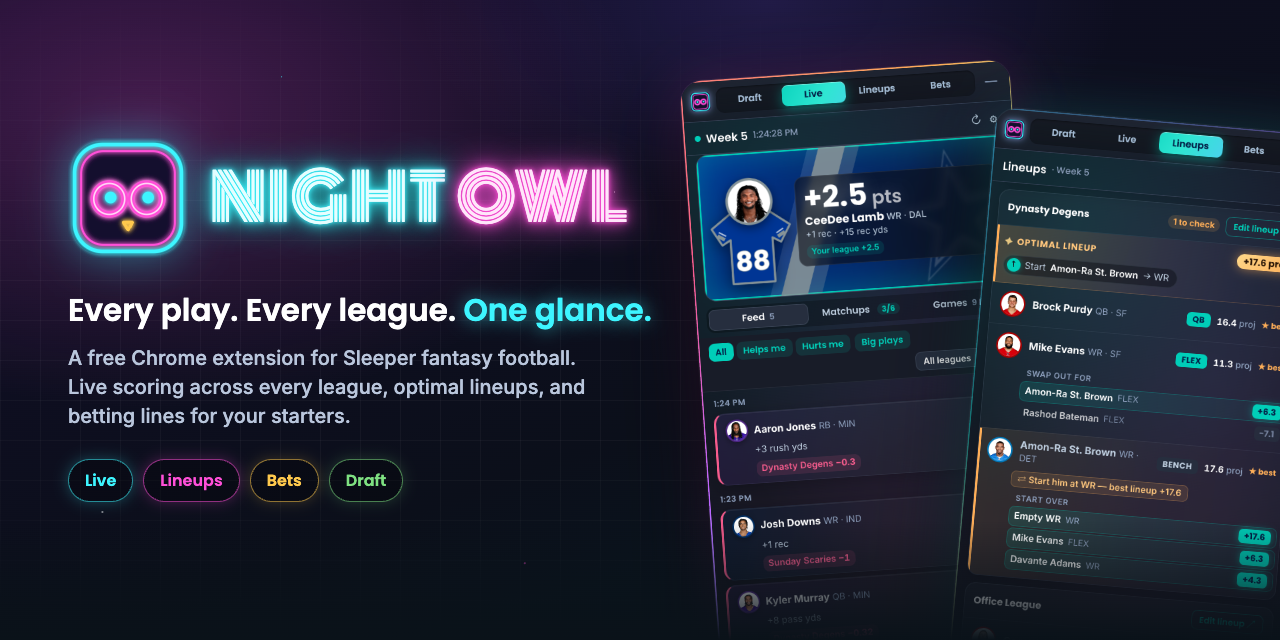
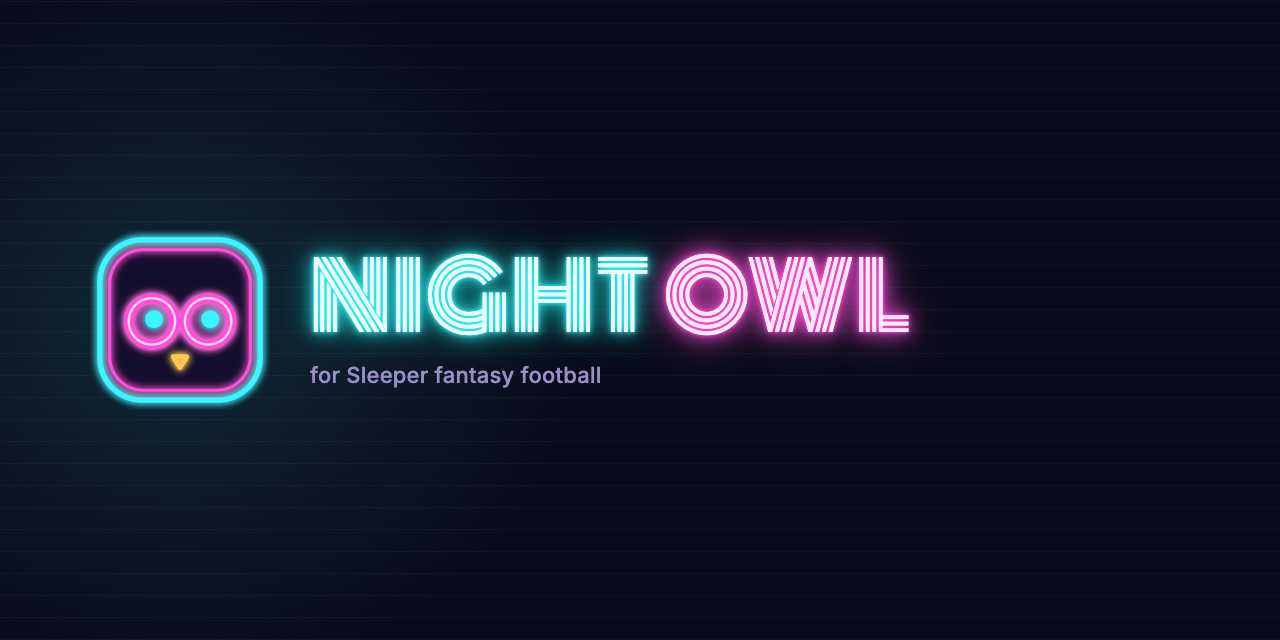
README: rewrite in plain language
Say why the extension exists and what each tab does, note what it can't do,
and drop the banner, badge row and dividers for a simple header.

diff --git a/README.md b/README.md
@@ -1,96 +1,109 @@
-<p align="center">
-  <img src="docs/images/banner.jpg" alt="Night Owl: every play, every league, one glance" width="100%">
-</p>
+<img src="docs/images/header.jpg" alt="Night Owl" width="100%">
 
-<p align="center">
-  <a href="https://github.com/Treys21/NightOwl/releases/latest"><img alt="Download the latest release" src="docs/images/badges/download.svg"></a>
-  <img alt="Chrome 116+" src="docs/images/badges/chrome.svg">
-  <img alt="Manifest V3" src="docs/images/badges/mv3.svg">
-  <a href="LICENSE"><img alt="MIT license" src="docs/images/badges/license.svg"></a>
-</p>
+Night Owl is a Chrome extension that adds a small panel to [sleeper.com](https://sleeper.com).
+It's built for people in more than one league.
 
-<p align="center">
-  <b>A Chrome extension for <a href="https://sleeper.com">Sleeper</a> fantasy football.</b><br>
-  Live scoring across every league you play in, optimal lineups before each kickoff,<br>
-  betting lines for your starters, and your own big board on draft day.
-</p>
+I play in several Sleeper leagues, and every one of them scores differently. On
+Sundays I kept flipping between matchups to work out whether a CeeDee Lamb catch
+was good news or bad. He'd be my starter in one league and my opponent's in two
+others, and half PPR in one but full PPR in another. Night Owl does that math for
+every play, in every league, as it happens.
 
-<p align="center">
-  <a href="#install"><b>Install</b></a> ·
-  <a href="#features"><b>Features</b></a> ·
-  <a href="#privacy"><b>Privacy</b></a> ·
-  <a href="https://github.com/Treys21/NightOwl/issues/new/choose"><b>Feedback</b></a>
-</p>
+<img src="docs/images/plays.gif" alt="A play landing in the Live tab" width="440">
 
-<p align="center"><img src="docs/images/divider.svg" width="100%" alt=""></p>
+## What it does
 
-<table align="center">
-  <tr>
-    <td align="center" valign="top" width="25%"><img src="docs/images/live.png" alt="Live feed" width="100%"><br><b>Live</b><br><sub>Every play, scored per league</sub></td>
-    <td align="center" valign="top" width="25%"><img src="docs/images/lineups.png" alt="Lineups" width="100%"><br><b>Lineups</b><br><sub>Optimal lineup before kickoff</sub></td>
-    <td align="center" valign="top" width="25%"><img src="docs/images/bets.png" alt="Bets" width="100%"><br><b>Bets</b><br><sub>Lines and odds for your starters</sub></td>
-    <td align="center" valign="top" width="25%"><img src="docs/images/draft.png" alt="Draft board" width="100%"><br><b>Draft</b><br><sub>Your rankings, live in the draft room</sub></td>
-  </tr>
-</table>
+There are four tabs. Only the one you're looking at runs.
 
-<p align="center"><img src="docs/images/divider.svg" width="100%" alt=""></p>
+<img src="docs/images/live.png" alt="Live tab" width="300" align="right">
 
-## Install
+**Live** lists every scoring play by your starters and your opponents' starters,
+newest first. Each play shows what it was worth in each league, from your side:
+**+** if it's your player, **−** if it's theirs. It never adds the leagues together,
+because they're separate games. When eight games kick off at 1 PM it gets busy, so
+you can filter to one league, to plays that help or hurt you, or to big plays only.
+Matchups and per-game views are one tap away.
 
-Night Owl is distributed as a release package while it is in testing.
-
-1. Download **`night-owl-v<version>.zip`** from the [latest release](https://github.com/Treys21/NightOwl/releases/latest) and unzip it.
-2. Open `chrome://extensions` and enable **Developer mode**.
-3. Select **Load unpacked** and choose the unzipped folder.
-4. Click the Night Owl icon in the toolbar, enter your **Sleeper username**, and select **Save**.
-5. Open [sleeper.com](https://sleeper.com). The panel appears in the corner of the page.
-
-Night Owl runs in Chrome 116 or later and other Chromium browsers, including Edge, Brave and Arc. To update, unzip the new release over the old folder, then select **↻** on the extension card and reload sleeper.com.
-
-## Features
-
-<img src="docs/images/plays.gif" alt="Plays landing on the Live stage" width="420" align="right">
-
-**Live.** A single game-day feed for every league. Each scoring play by your starters or your opponents' starters appears once, with its effect in each league under that league's scoring settings: `+` when it helps you, `−` when it hurts. Big plays land on the stage in team colors. Filter by league, by plays that help or hurt, or by big plays only.
-
-**Lineups.** Your roster grouped by kickoff window, starting with the next one to lock. An exact solver finds the optimal lineup, including flex and superflex chains, and lists every valid swap with its projected gain. Starters who are on bye, out, or in an empty slot are flagged before kickoff.
-
-**Bets.** Sleeper Picks lines and DraftKings milestones for each player you start, shown in American odds, with hit rates over the last ten games, projection against the line, and matchup context. Once a game starts, each line shows live progress. For information only; no wagers are placed.
-
-**Draft.** Your rankings as a big board inside Sleeper mock and league drafts: who is gone, who took them, how far each pick landed from your rank, and an alert when you are on the clock. Rankings sync from The Ringer or can be edited by hand.
+Points come from each league's own scoring settings and match Sleeper's totals.
+There's a test for that against real matchups.
 
 <br clear="right">
 
-<p align="center"><img src="docs/images/divider.svg" width="100%" alt=""></p>
+<img src="docs/images/lineups.png" alt="Lineups tab" width="300" align="right">
+
+**Lineups** goes through the week by kickoff window, next lock first. For each
+league it works out the best possible lineup, flex spots included, and tells you
+the exact moves. It also flags anyone on bye, ruled out, or sitting in an empty
+slot. It can't change your lineup for you, since Sleeper's API is read-only, so
+each league gets an **Edit lineup** link.
+
+<br clear="right">
+
+<img src="docs/images/bets.png" alt="Bets tab" width="300" align="right">
+
+**Bets** puts Sleeper Picks lines and DraftKings milestones next to each player you
+start, with how often he's cleared each line in his last ten games and how his
+projection compares. Once his game starts, the lines fill in live. It's there to
+look at; nothing is ever placed.
+
+<br clear="right">
+
+<img src="docs/images/draft.png" alt="Draft tab" width="300" align="right">
+
+**Draft** is a big board for draft day. Load rankings from The Ringer or type your
+own, and in a Sleeper draft room it shows who's gone, who took them, how far each
+pick landed from your rank, and when you're on the clock.
+
+<br clear="right">
+
+## Installing
+
+It isn't on the Chrome Web Store yet, so for now it installs by hand. It takes
+about two minutes.
+
+1. Download `night-owl-v<version>.zip` from the [latest release](https://github.com/Treys21/NightOwl/releases/latest) and unzip it.
+2. Go to `chrome://extensions` and turn on **Developer mode** (top right).
+3. Click **Load unpacked** and pick the unzipped folder.
+4. Click the owl in your toolbar, type your Sleeper username, and hit **Save**.
+5. Open sleeper.com.
+
+It works in Chrome 116 or newer, and in Edge, Brave and Arc. To update, unzip the
+new version over the old folder, click ↻ on Night Owl's card, and refresh Sleeper.
+
+If something looks off, or you have an idea, [open an issue](https://github.com/Treys21/NightOwl/issues/new/choose).
+A screenshot helps a lot.
 
 ## Privacy
 
-Night Owl runs entirely in your browser. It has no account, server, analytics or tracking. It stores your Sleeper username, rankings, panel layout and data caches in Chrome's local extension storage, and it only reads public data.
+Everything runs in your browser. There's no account, no server, and no analytics.
+Night Owl saves your username, rankings and a few caches in Chrome's local
+storage, and it only reads public data:
 
-| Permission | Purpose |
-| --- | --- |
-| `storage`, `unlimitedStorage` | Settings, rankings and caches. Sleeper's player directory is about 5 MB. |
-| `sleeper.com` | Displays the panel on Sleeper pages. |
-| `api.sleeper.app`, `api.sleeper.com` | Leagues, rosters, matchups, players, live stats, projections and Sleeper Picks lines. |
-| `site.api.espn.com`, `sports.core.api.espn.com` | Kickoff times, game odds and DraftKings player props. |
-| `theringer.com` | Draft rankings sync. |
+- **Sleeper** for leagues, rosters, matchups, live stats, projections and Picks lines
+- **ESPN** for kickoff times, game odds and DraftKings props
+- **The Ringer** for draft rankings, only when you click Sync
 
-## Data sources
+## When something breaks
 
-Night Owl reads the same public data feeds that power Sleeper's and ESPN's own sites. These feeds are not published APIs, so a change on the provider's side can interrupt a feature. Each feature depends only on its own feeds and falls back where it can, for example to Sleeper's schedule when ESPN is unavailable. If a feed stops responding, the panel names it and keeps retrying, while everything else continues to work.
+None of those feeds are official APIs. They're what Sleeper's and ESPN's own sites
+use, so they can change without warning. Each tab only depends on the feeds it
+needs, and when a feed stops answering, the panel tells you which one instead of
+going quiet. If that happens on a Sunday, an issue gets it fixed fastest.
 
-## Development
+## Working on it
 
-Night Owl is plain Manifest V3 JavaScript with no build step and no runtime dependencies.
+It's plain JavaScript with no build step. You'll need Node 20+ to run the checks.
 
 ```bash
-npm ci            # development tools
-npm run verify    # lint, static checks and unit tests
-npm run package   # dist/night-owl-v<version>.zip
+npm ci
+npm run verify    # lint, static checks, tests
+npm run package   # builds the release zip
 ```
 
-Load the repository folder with **Load unpacked** while developing. See [CONTRIBUTING.md](CONTRIBUTING.md) for the architecture, conventions and release process, and [CHANGELOG.md](CHANGELOG.md) for release history.
+Load the repo folder with **Load unpacked** while you work. [CONTRIBUTING.md](CONTRIBUTING.md)
+covers how it's put together, and [CHANGELOG.md](CHANGELOG.md) has the history.
 
-## License
+---
 
-[MIT](LICENSE) © 2026 Anik Patel. Night Owl is an independent project and is not affiliated with or endorsed by Sleeper, ESPN, DraftKings or The Ringer. Their names and data belong to their respective owners.
+Made by [Anik Patel](https://github.com/Treys21). MIT licensed. Not affiliated
+with Sleeper, ESPN, DraftKings or The Ringer.
